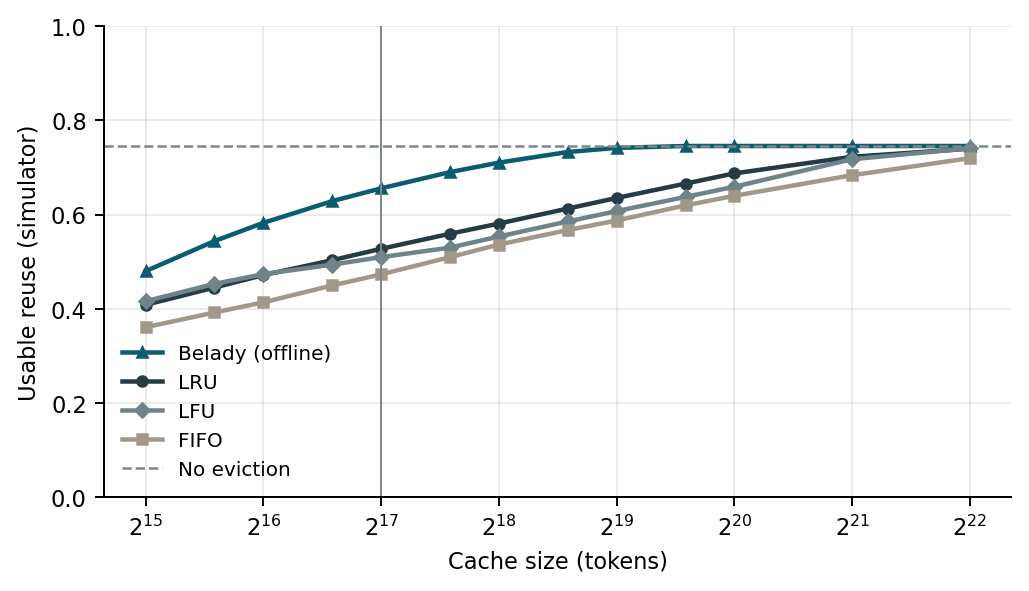
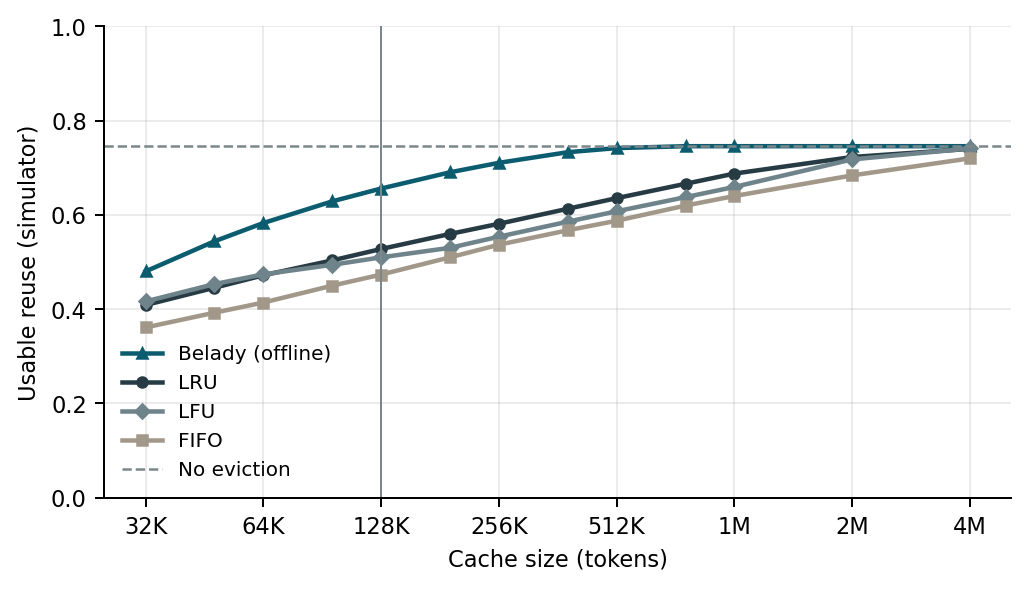
Label the headroom figure's cache sizes as 32K ... 4M
fig5_capacity_sim used matplotlib's 2^15 ... 2^22 labels; it now shares
the 32K ... 4M ticks (1K = 1,024 tokens) of fig6 and the results page.

diff --git a/analysis/m3t2_figures.py b/analysis/m3t2_figures.py
@@ -46,6 +46,18 @@ def _mids(edges: List[float]) -> List[float]:
     ]
 
 
+def _cap_ticks(ax, caps: List[int]) -> None:
+    """Cache-size ticks as 32K ... 4M (1K = 1,024 tokens)."""
+    ticks = [
+        t for t in (32768, 65536, 131072, 262144, 524288, 1048576, 2097152,
+                    4194304, 8388608) if caps[0] <= t <= caps[-1]
+    ]
+    ax.set_xticks(ticks, [
+        f"{t // 1048576}M" if t >= 1048576 else f"{t // 1024}K" for t in ticks
+    ])
+    ax.minorticks_off()
+
+
 def _save(fig, out: Path, name: str) -> List[Path]:
     paths = []
     for ext in ("pdf", "png"):
@@ -279,13 +291,7 @@ def capacity_hit_rate(s: Row, plt, out: Path) -> List[Path]:
                    label="No eviction")
     ax.axvline(c["fixed"], color="#7b878b", lw=0.8)
     ax.set_xscale("log", base=2)
-    ticks = [
-        t for t in (32768, 65536, 131072, 262144, 524288, 1048576, 2097152,
-                    4194304) if caps[0] <= t <= caps[-1]
-    ]
-    ax.set_xticks(ticks, [
-        f"{t // 1048576}M" if t >= 1048576 else f"{t // 1024}K" for t in ticks
-    ])
+    _cap_ticks(ax, caps)
     ax.set_xlabel("Cache size (tokens)")
     ax.set_ylabel("Hit rate (prompt tokens from cache)")
     ax.set_ylim(0.3, 0.8)
@@ -312,6 +318,7 @@ def capacity(s: Row, plt, out: Path) -> List[Path]:
     ax.axhline(ceil, color="#7b878b", lw=1, ls="--", label="No eviction")
     ax.axvline(s["config"]["capacity_tokens"], color="#7b878b", lw=0.8)
     ax.set_xscale("log", base=2)
+    _cap_ticks(ax, caps)
     ax.set_xlabel("Cache size (tokens)")
     ax.set_ylabel("Usable reuse (simulator)")
     ax.set_ylim(0, 1)
